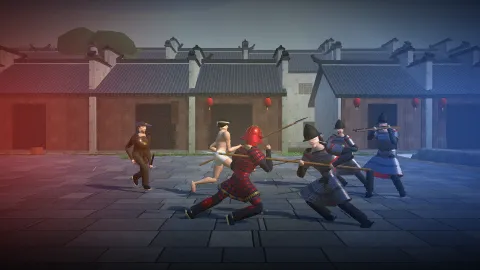
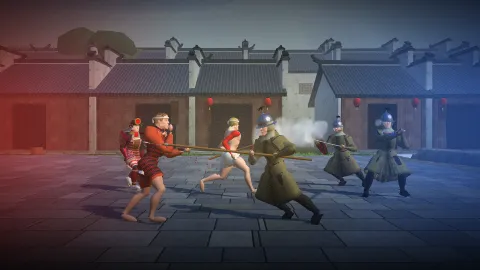
Qi Jiguang's elite infantry in the olive coat of the reference photograph, not the dark one
QI.design.eliteInfantry 0 (OUTFITS mingEliteInfantry 'Olive'), in his battle and in the setup screen's Qi army;
the battle's card picture made again.

Claude-Session: https://claude.ai/code/session_015Z1j2genGS7mPnk5WWqNmf

Changed region(s): [[0.1875, 0.4148, 0.875, 0.8593], [0.8438, 0.7111, 0.875, 0.7407]]

diff --git a/src/scenarios.js b/src/scenarios.js
@@ -383,11 +383,12 @@ const QI = {
   // Squads side by side, this far (m) between their middles: the brushes of the two a gap of 0.7 m apart.
   squads: 2,
   squadWidth: 4.9,
-  // One colour to a kind: his squad men in his elite infantry's coat, dark, bound in red (OUTFITS mingEliteInfantry
-  // design 3; the user's call, 2026-11-10: in place of the red-laced iron lamellar, its sleeves of plates and the steel
-  // tube on the front forearm guarding the arms the sleeveless vest left bare to the wokou's long swords), and the
-  // iron lamellar laced in crimson for the guards of his household (OUTFITS mingElite's level design: the setup screen's, ARMIES.qi).
-  design: { eliteInfantry: 3, elite: 5 },
+  // One colour to a kind: his squad men in his elite infantry's coat, the olive of the reference photograph, bound dark
+  // (OUTFITS mingEliteInfantry design 0, 2026-11-15, in place of the dark coat bound in red; the coat chosen 2026-11-10 in
+  // place of the red-laced iron lamellar: its sleeves of plates and the steel tube on the front forearm guarding the arms
+  // the sleeveless vest left bare to the wokou's long swords), and the iron lamellar laced in crimson for the guards of
+  // his household (OUTFITS mingElite's level design: the setup screen's, ARMIES.qi).
+  design: { eliteInfantry: 0, elite: 5 },
 };
 
 /** The mandarin-duck squad as Qi drilled it ([style, back, across] a man): the story's southern squads stand so (src/story/battles). */
